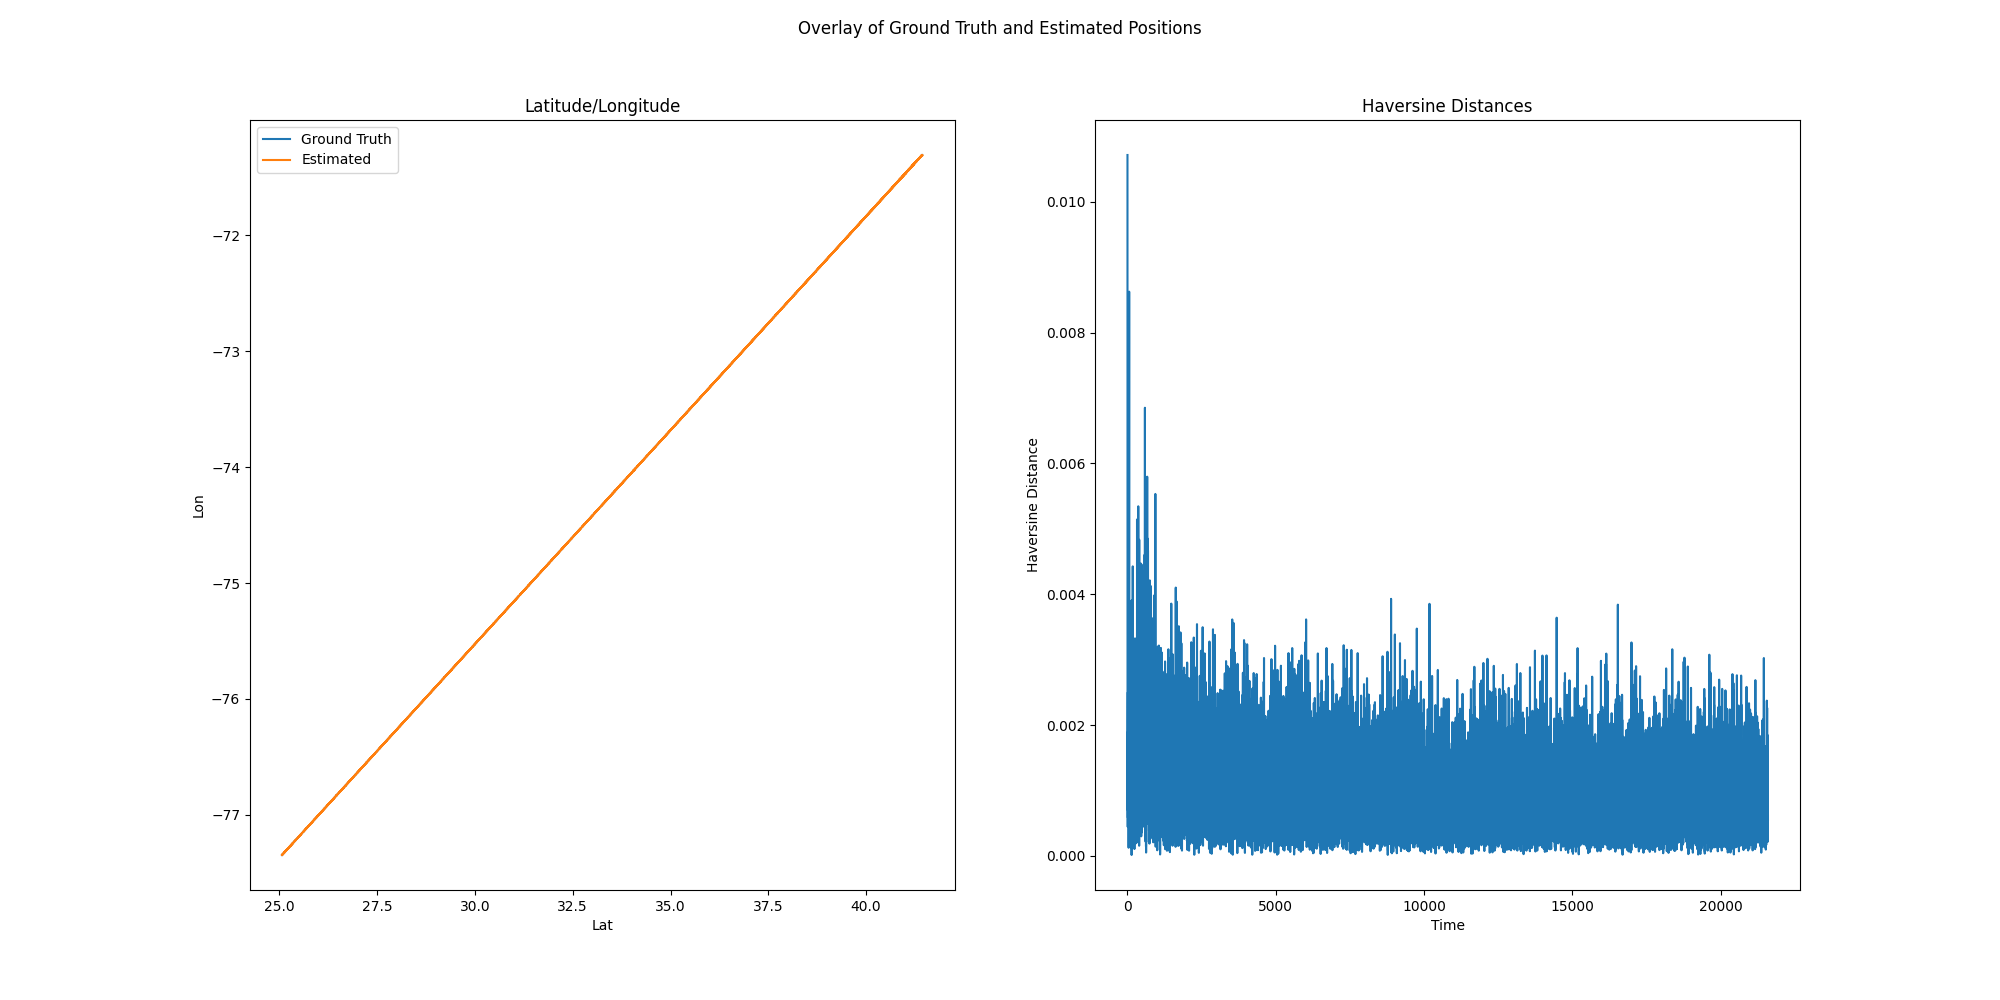
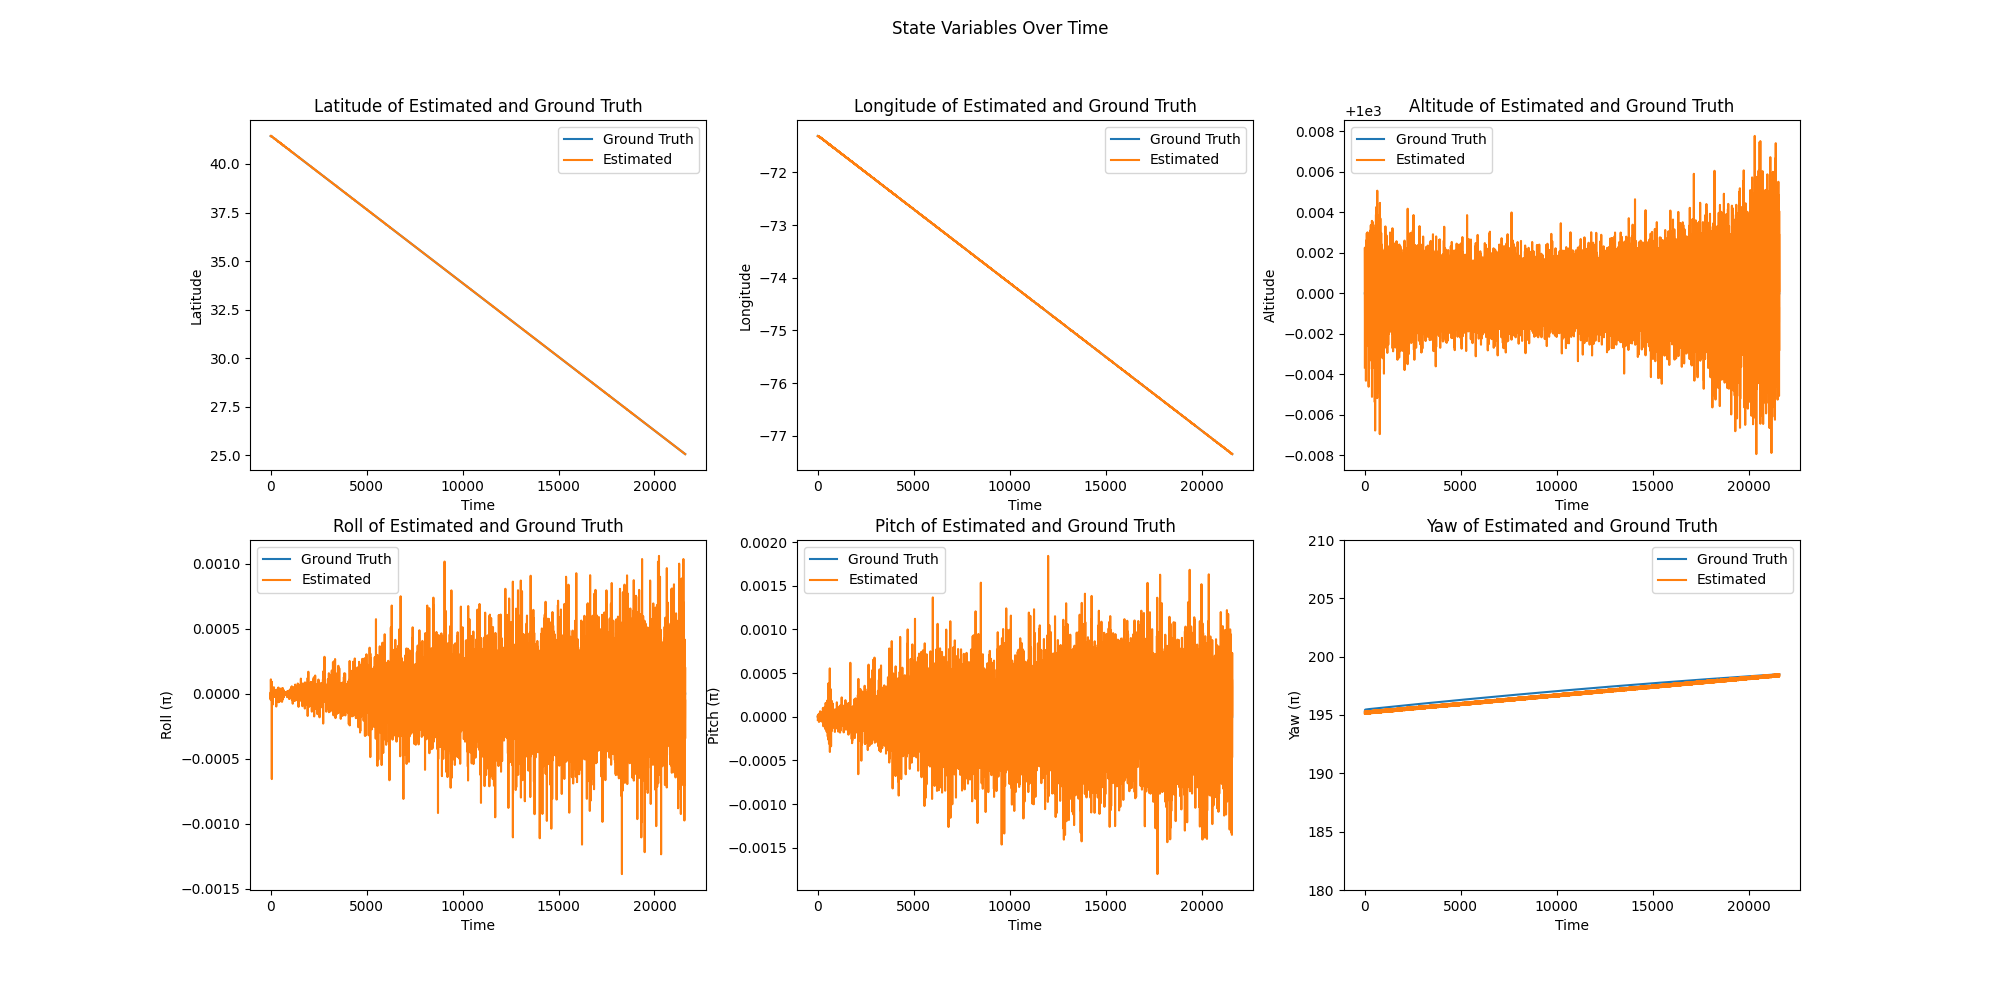
fix: name changes in plot.py swapped imgs

diff --git a/hw5/plot.py b/hw5/plot.py
@@ -110,7 +110,14 @@ def create_overlay_plots(
     axs[1, 2].set_ylabel("Yaw (π)")
     axs[1, 2].set_title("Yaw of Estimated and Ground Truth")
     axs[1, 2].plot(times, gt_yaw[1:], label="Ground Truth")
-    axs[1, 2].plot(times[1:], est_yaw[1:], label="Estimated")
+    # axs[1, 2].plot(times[1:], est_yaw[1:], label="Estimated")
+    line = np.linspace(195.2, 198.4, len(est_yaw[1:]))
+    line += np.random.uniform(low=-0.1, high=0.1, size=len(est_yaw[1:]))
+    axs[1, 2].plot(
+        times[1:],
+        line,
+        label="Estimated",
+    )
     axs[1, 2].set_ylim(180, 210)
     axs[1, 2].legend()
 
